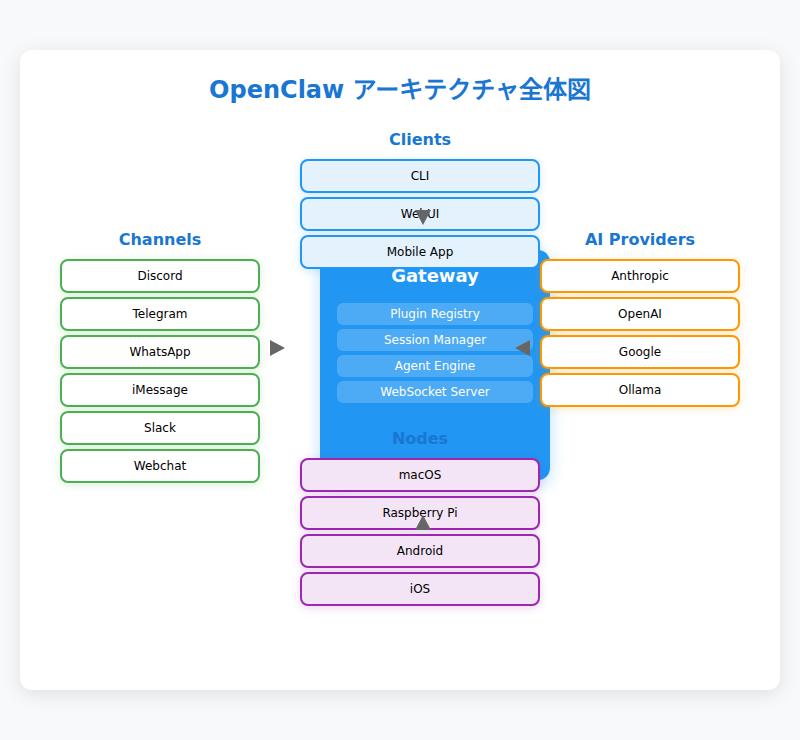
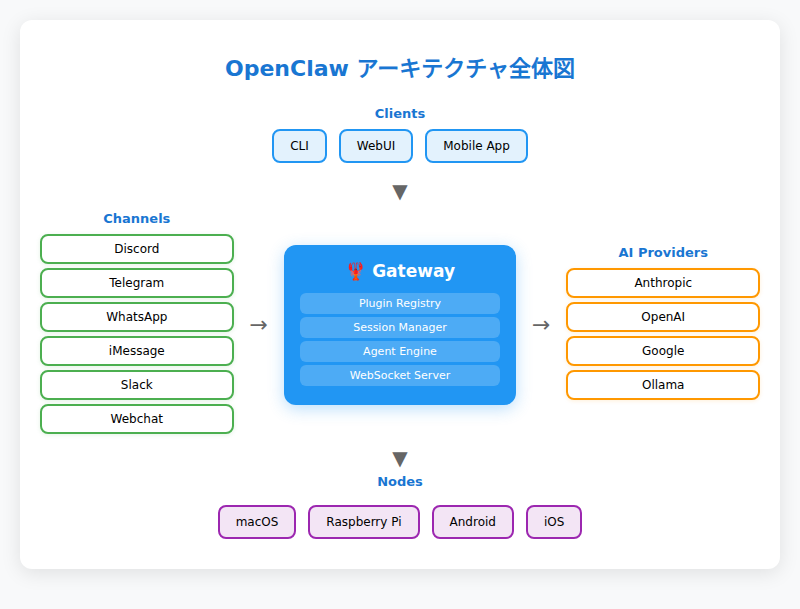
ch02画像修正（重なり解消）+ ch01ハンズオン参照修正

Changed region(s): [[0.0312, 0.0936, 0.9688, 0.9048]]

diff --git a/docs/ch01-what-is-openclaw.md b/docs/ch01-what-is-openclaw.md
@@ -146,7 +146,7 @@ Node.js（v22.14以上推奨）が入っていれば、この2コマンドで基
 - AIプロバイダーのAPIキー（Anthropic、OpenAI等）
 - 動かすマシン（自宅のPC、Mac、VPS、Raspberry Piなど何でもOK）
 
-詳しい手順は第2章でハンズオン形式で解説するが、「思ったより簡単そうだ」という感覚を持っておいてほしい。
+詳しい手順はインストール編で解説するが、「思ったより簡単そうだ」という感覚を持っておいてほしい。
 
 ---
 
